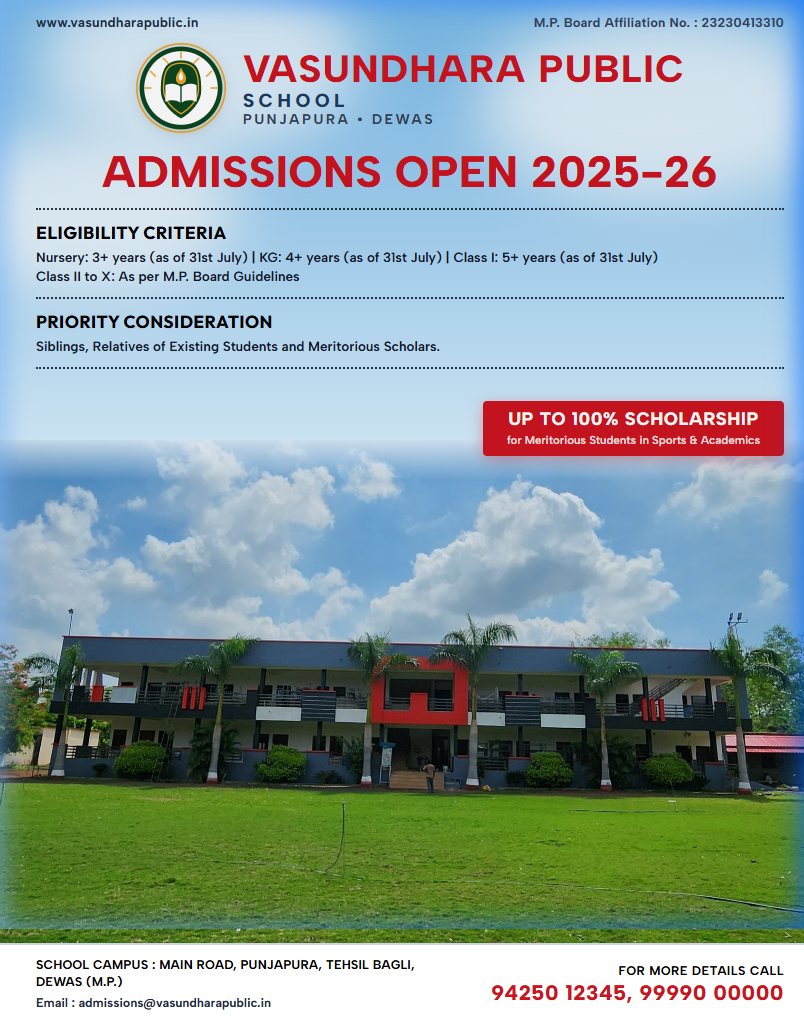
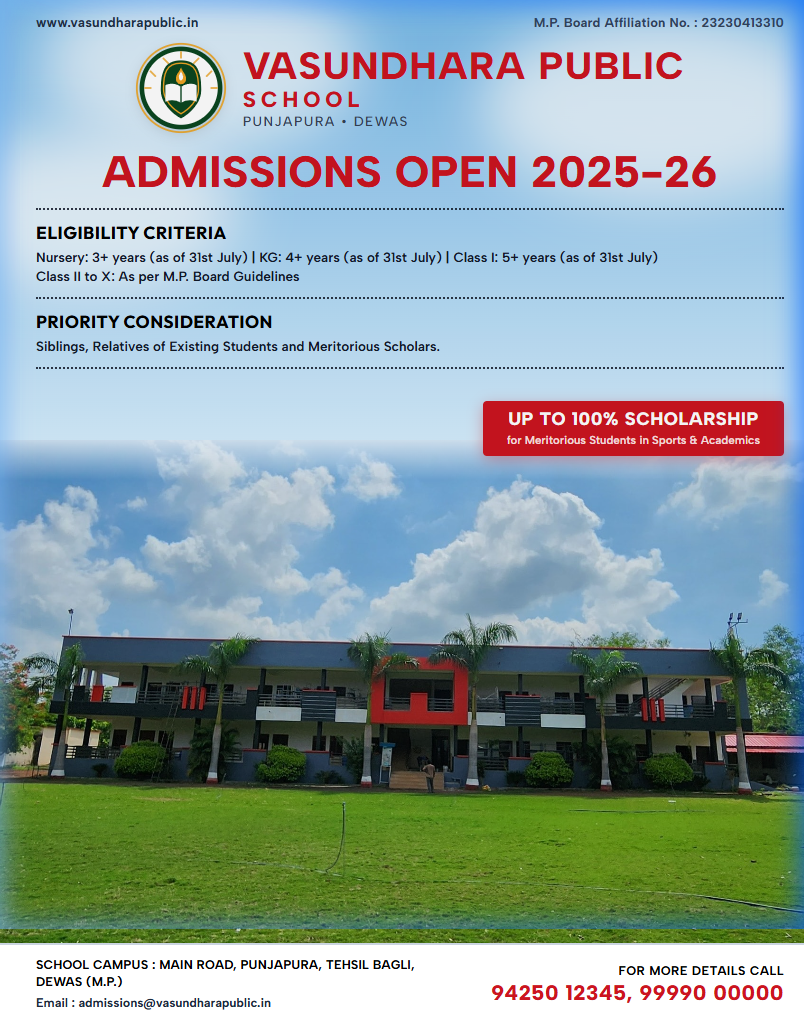
style: set SCHOOL in red AC Texto ExtraBold and PUNJAPURA DEWAS in normal font

Changed region(s): [[0.2799, 0.0312, 0.653, 0.125], [0.6841, 0.0312, 0.8396, 0.0938]]

diff --git a/public/banner_template.html b/public/banner_template.html
@@ -144,24 +144,24 @@
       letter-spacing: 1.5px;
       line-height: 1;
       text-transform: uppercase;
-      margin-bottom: 3px;
+      margin-bottom: 4px;
     }
     .brand-name-school {
       font-family: var(--font-ac-texto);
-      font-size: 19px;
+      font-size: 22px;
       font-weight: 800;
-      color: var(--brand-navy);
-      letter-spacing: 4.5px;
+      color: var(--brand-red);
+      letter-spacing: 5px;
       line-height: 1;
       text-transform: uppercase;
-      margin-bottom: 3px;
+      margin-bottom: 4px;
     }
     .brand-name-sub {
       font-family: var(--font-alfons-sans);
-      font-size: 14px;
-      font-weight: 700;
+      font-size: 13.5px;
+      font-weight: 500;
       color: #334155;
-      letter-spacing: 2.5px;
+      letter-spacing: 1.5px;
       line-height: 1;
       text-transform: uppercase;
     }
